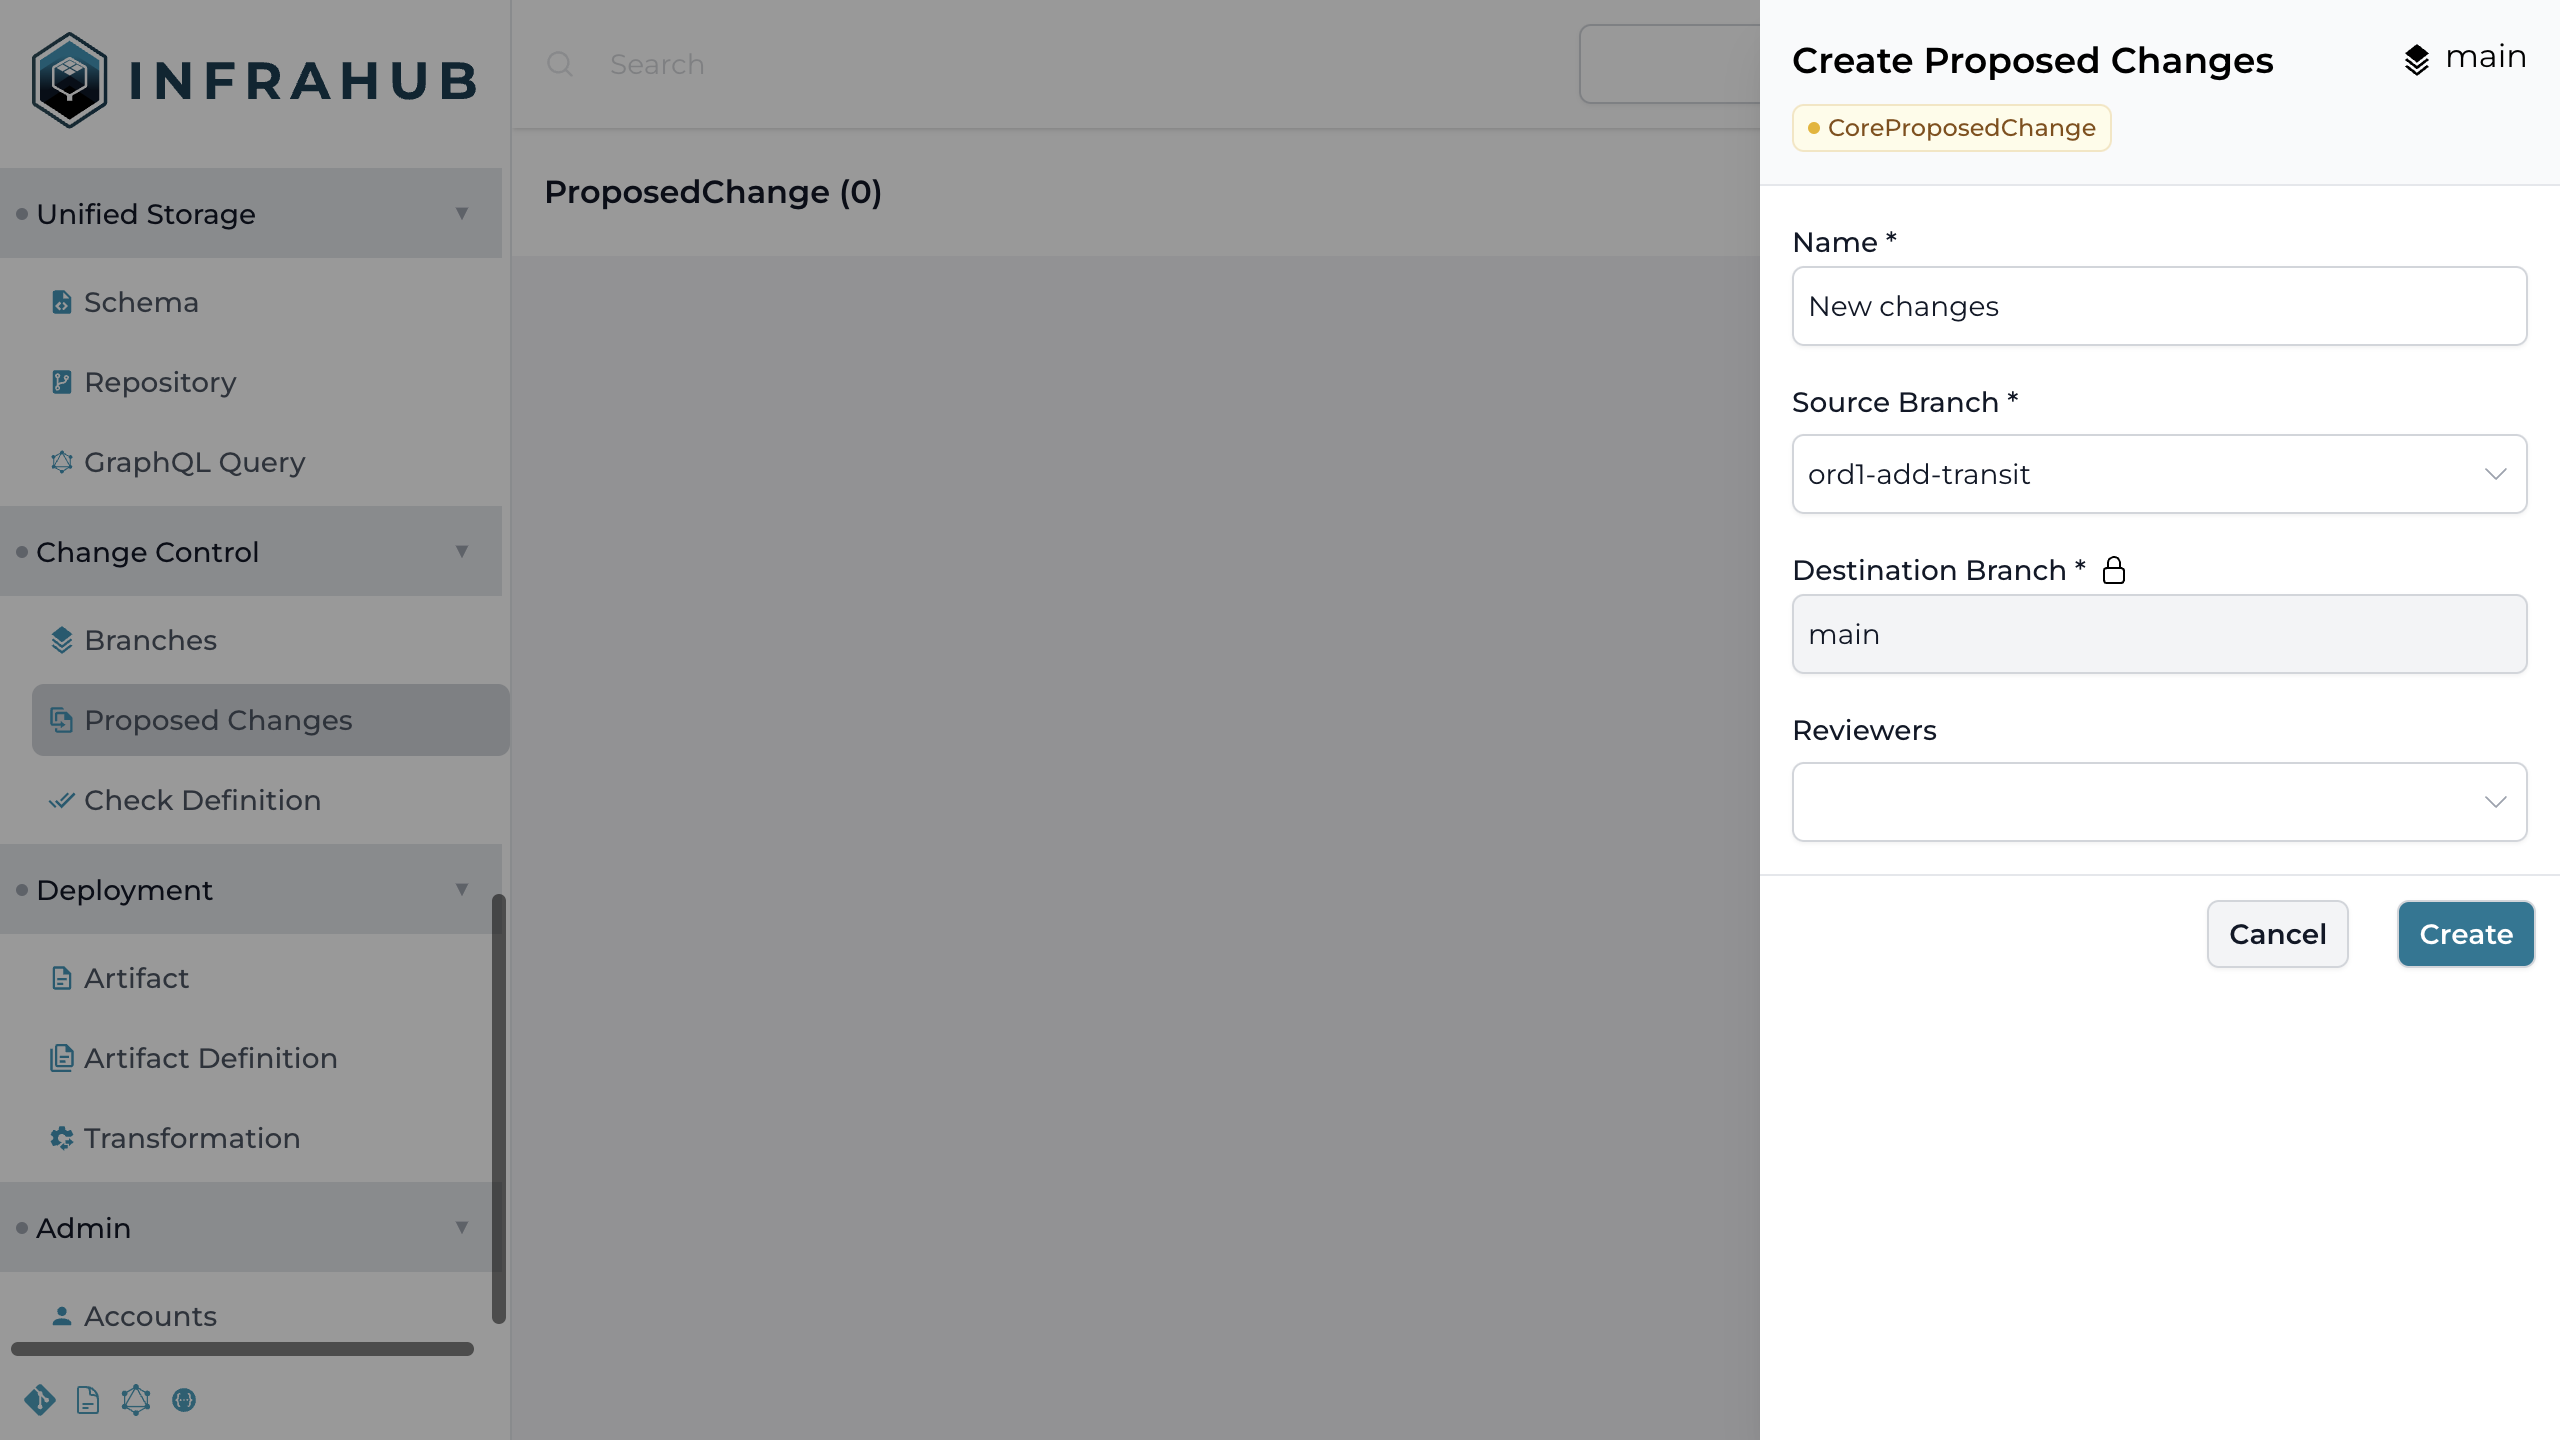
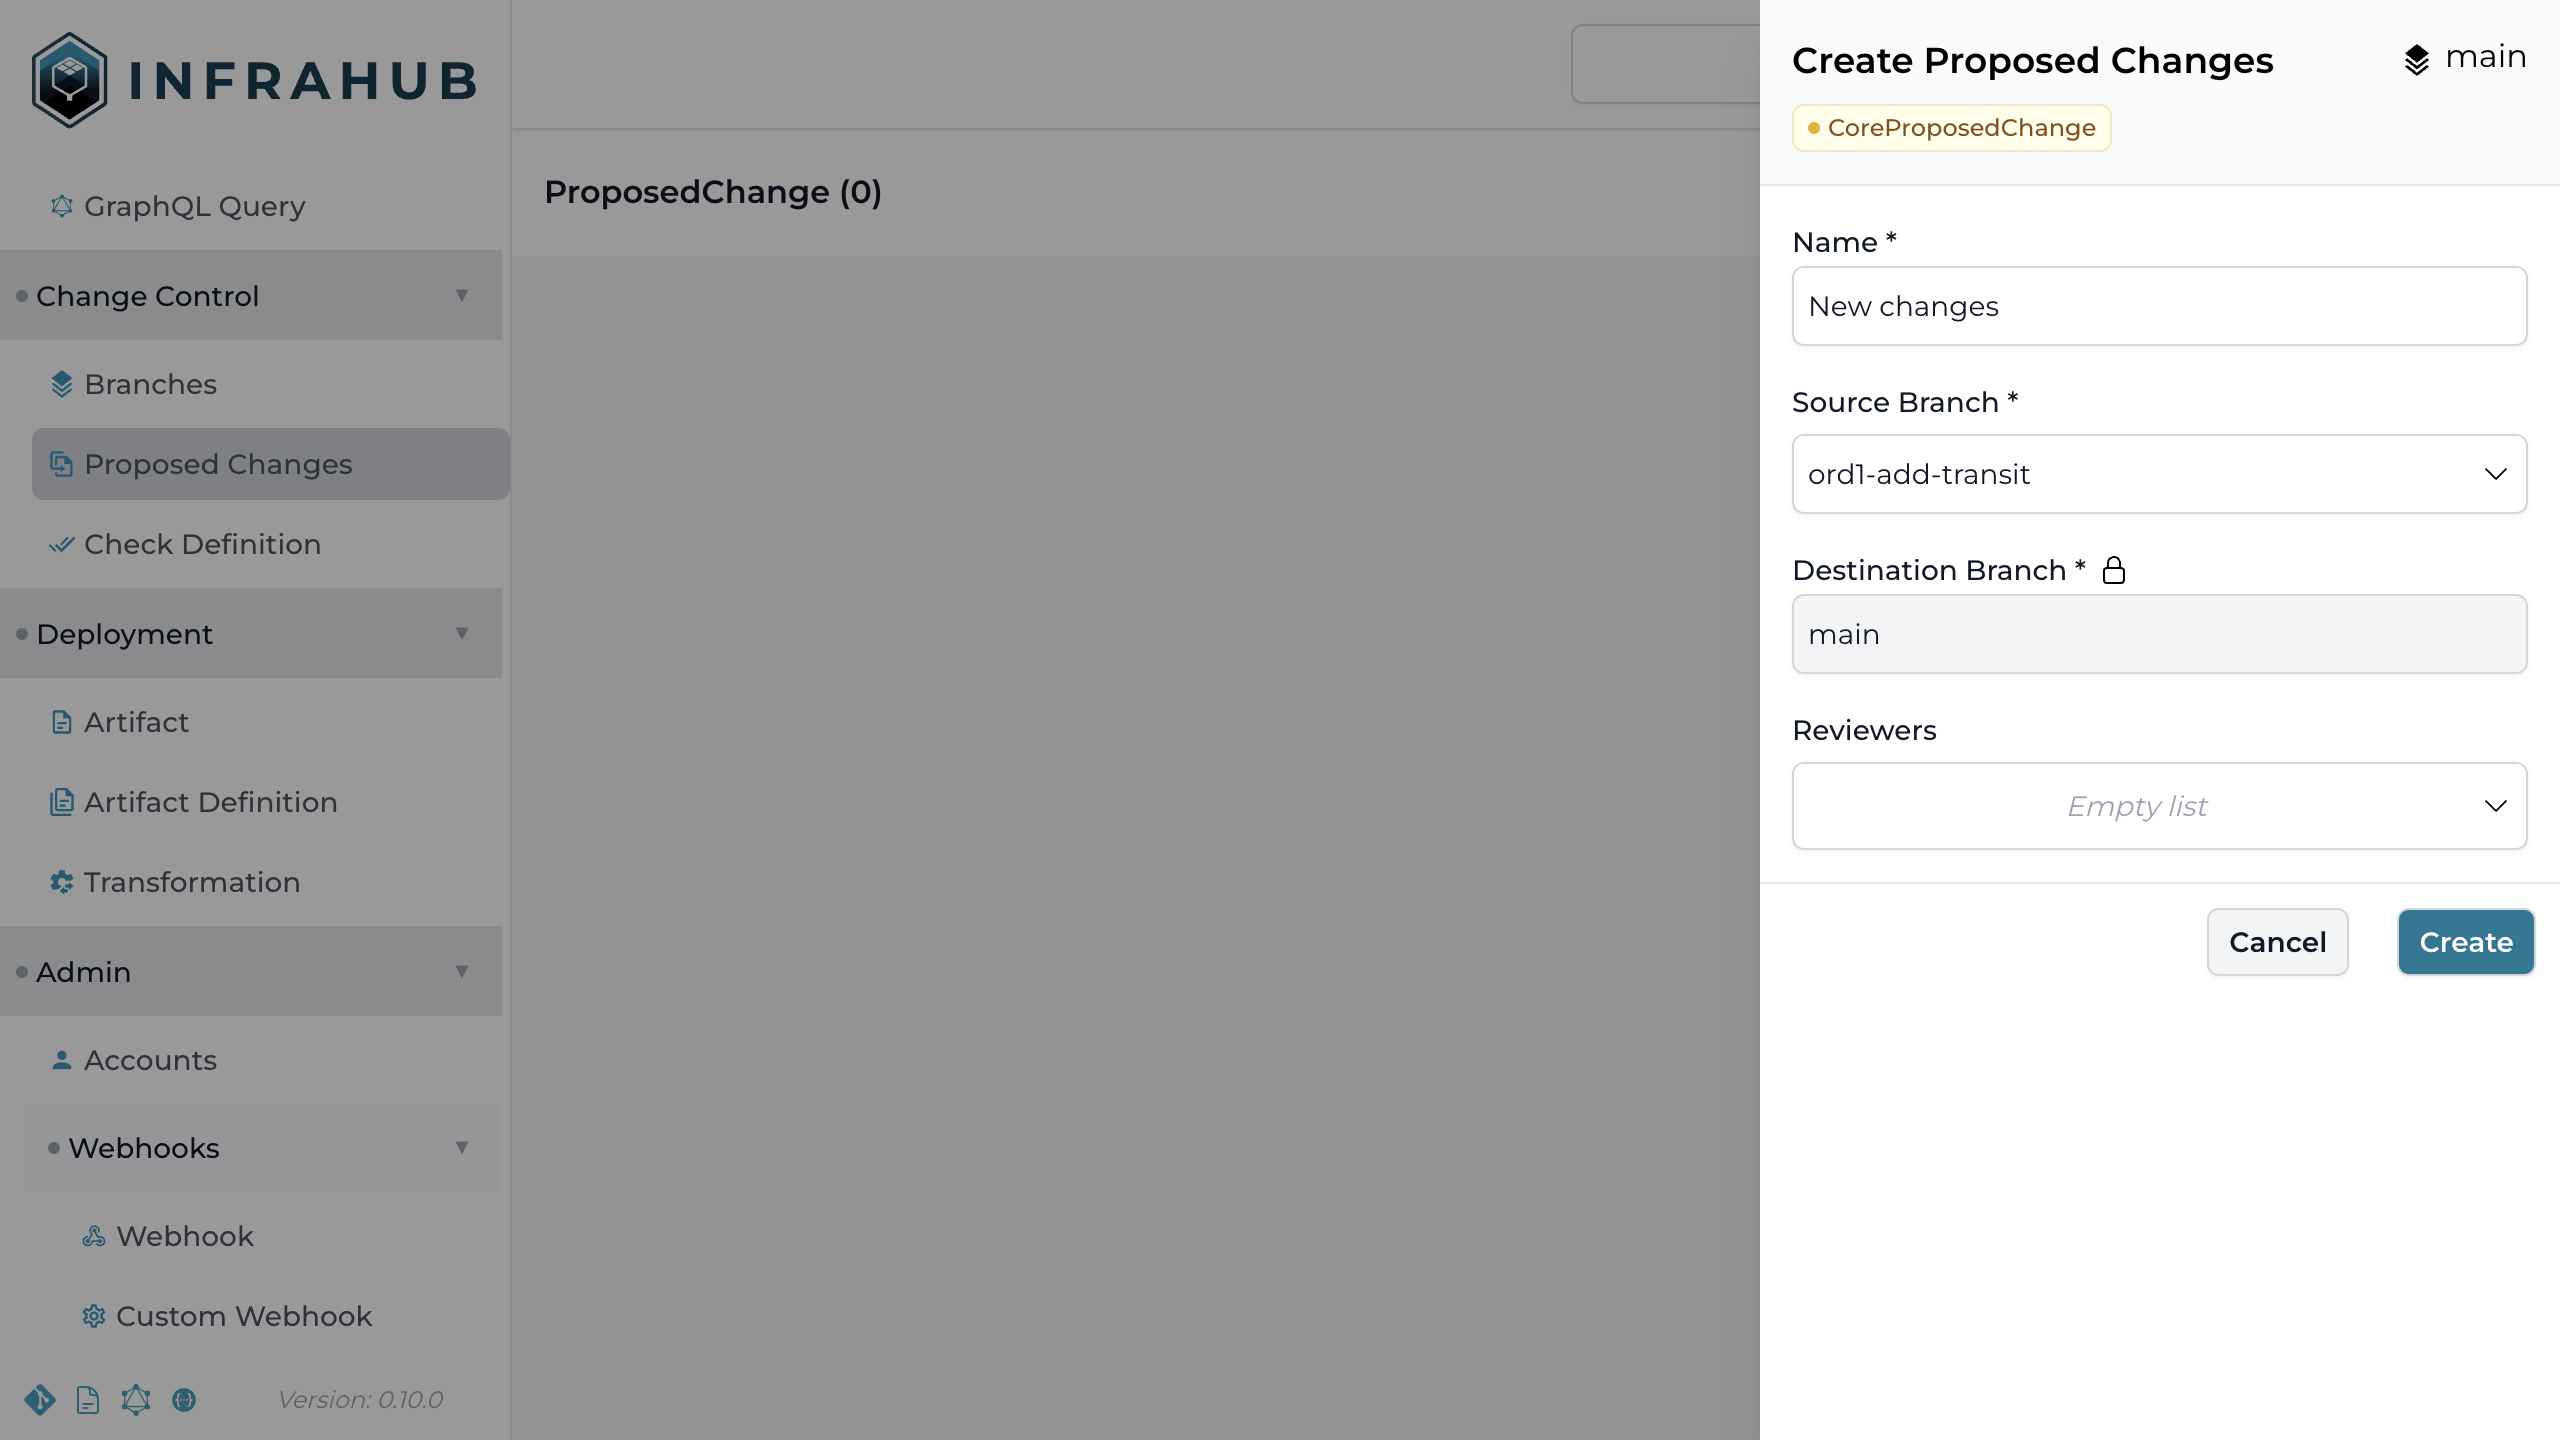
update tutorial screenshots for 0.10.0 release

diff --git a/frontend/tests/e2e/proposed-changes.cy.ts b/frontend/tests/e2e/proposed-changes.cy.ts
@@ -135,10 +135,6 @@ describe("Main application", () => {
 
         // Mark as resolved once commented
         cy.contains("Resolve thread").click();
-
-        if (this.screenshots) {
-          cy.screenshot("proposed-changes-4-comments-confirm-resolution", screenshotConfig);
-        }
       });
 
     cy.intercept("/graphql/main").as("CreateComment3");
